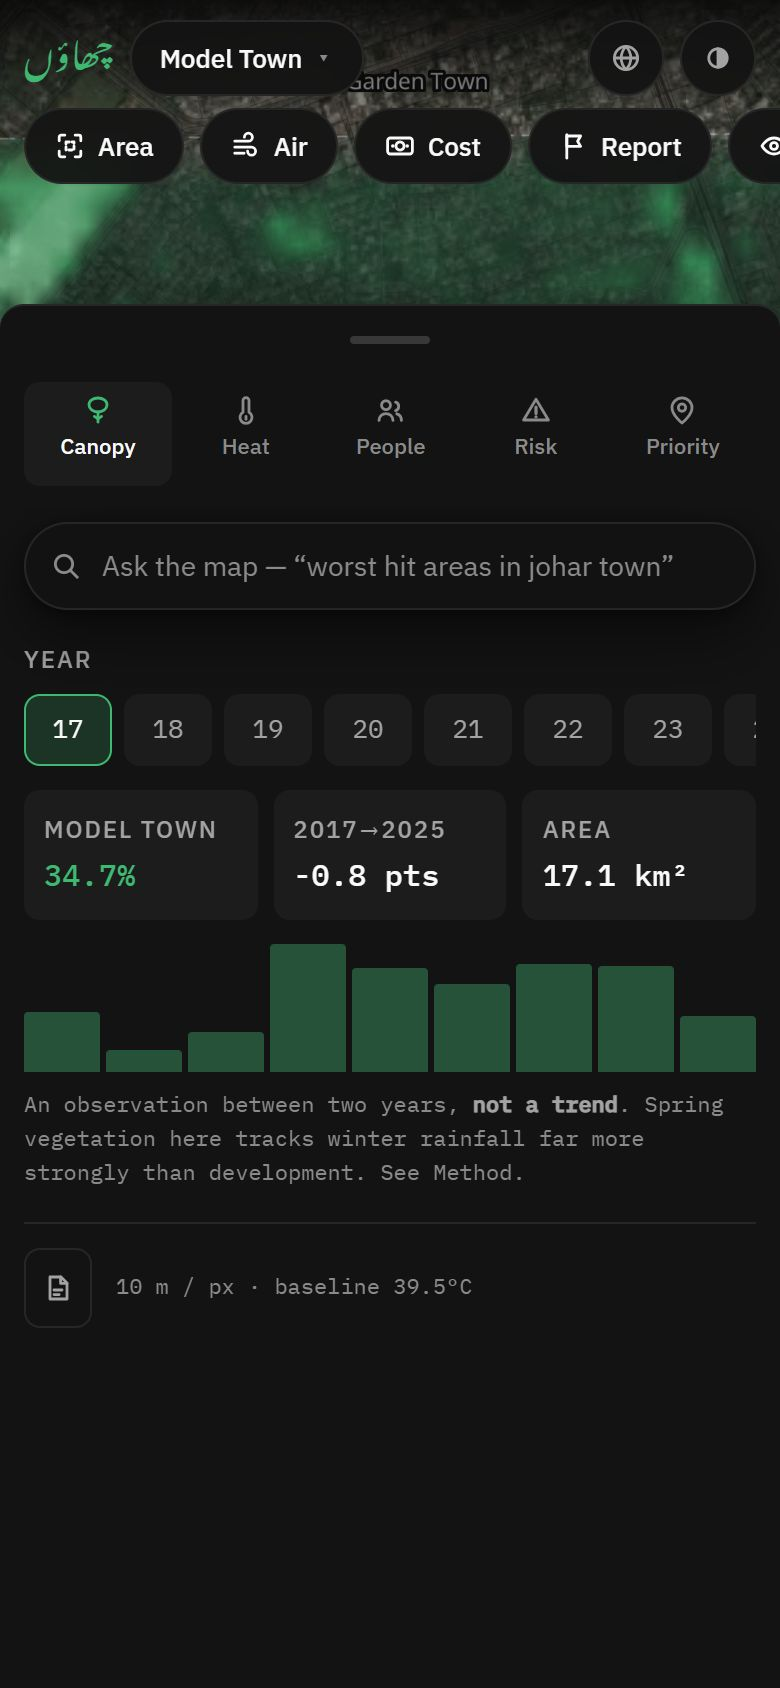
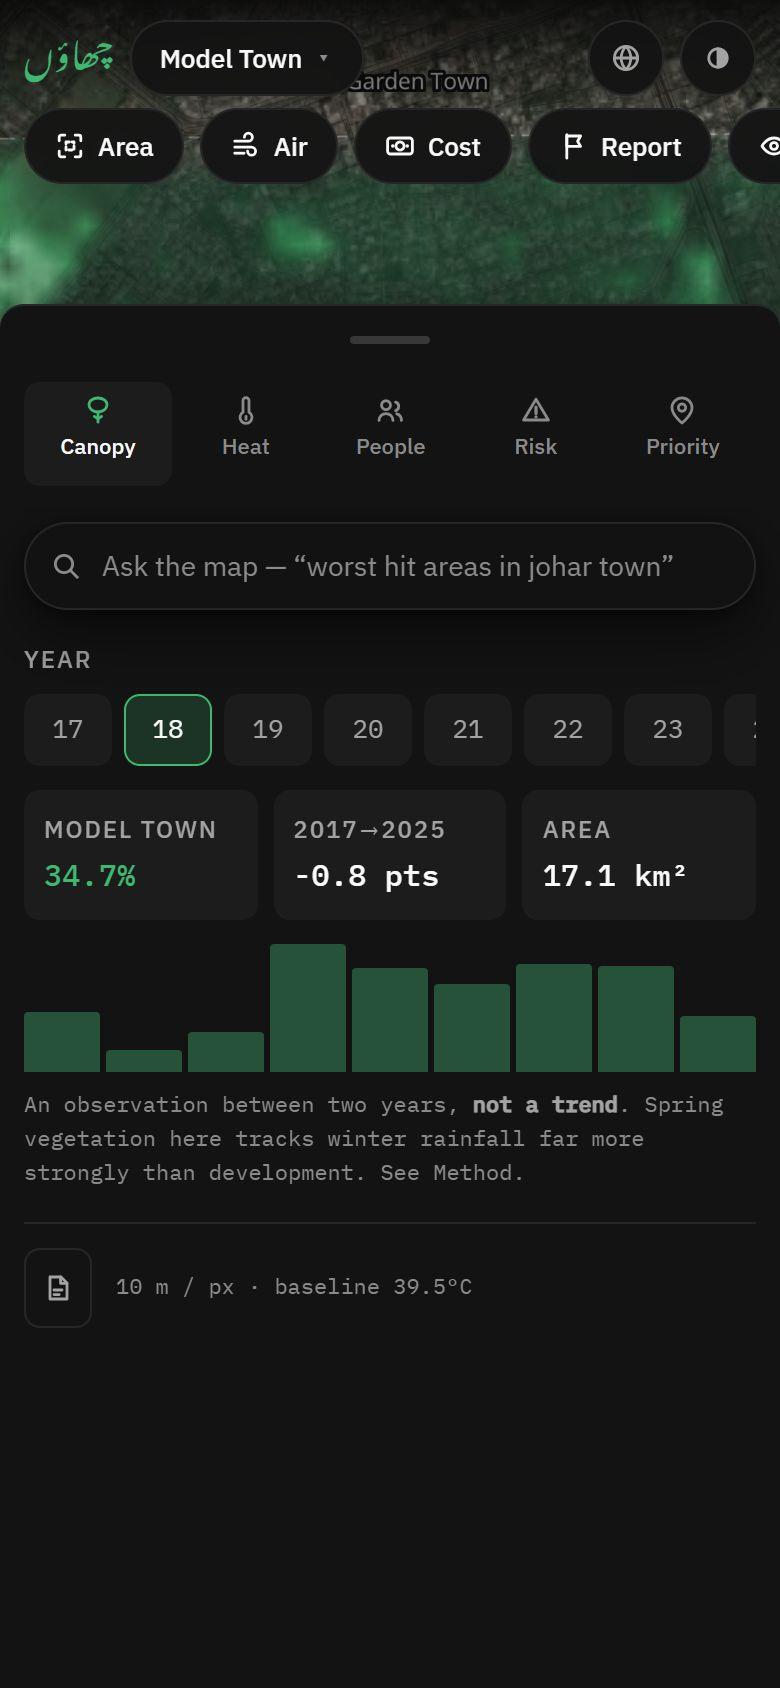
Document the two cadences and why they are never one series
README, PRODUCT.md §3.14a, SCREENS.md.

The argument worth keeping is why they stay apart: the annual window is
season-locked so that 2017 and 2025 are comparable, and joining a spring reading to
a September one would undo exactly that. Also records the counting that chose
monthly over fortnightly, and that a third of the Lahore year cannot be read from
orbit at all — which the series shows rather than smooths over.

Two more entries in the bugs table: write_year calling int() on a period, and the
legend check that started comparing the wrong view because it inherited one.

diff --git a/docs/PRODUCT.md b/docs/PRODUCT.md
@@ -334,6 +334,51 @@ to be gated on their open flags as well as lazily imported, because they render
 anyway. That is 8.7 KB gzip and, more usefully, no hooks running for a panel nobody
 opened.
 
+### 3.14a Two cadences over one measurement, and why they are never joined
+
+The yearly layers answer "is 2025 different from 2017", and the season-locked window
+is what makes that question answerable. They cannot answer "what has the canopy been
+doing lately": one reading a year is the coarsest possible sampling of something that
+moves every month.
+
+| | window | answers |
+|---|---|---|
+| 2017–2024 | one fixed spring window a year | is this year different from that one? |
+| 2024–2026 | every calendar month | what is happening now, and how does this month compare with the same month last year? |
+
+**They share `grid.ndvi`, keyed by period, and they are never plotted as one
+series.** Keeping the rasters in one map means the layer code needs no idea which
+cadence it is drawing — a period key is a period key. But joining the *series* would
+undo the annual window's entire purpose: a spring reading and a September reading are
+not neighbouring points, which is precisely why the annual one is locked.
+
+**Monthly rather than fortnightly, decided by counting.** Over the last 24 months of
+Model Town, scenes under the cloud bar:
+
+    monthly      14 of 16 non-smog months have >= 3 scenes
+    fortnightly  19 of 32 non-smog fortnights do; 10 have one or two, 3 have none
+
+Three scenes is the floor because compositing is the only thing that rejects haze.
+A fortnightly series would be largely single-scene readings — the exact artefact
+that produced 34% -> 23% -> 8% -> 47% on near-identical dates. The finest honest
+cadence is the one the sky supports, not the one the satellite revisit suggests.
+
+**A monthly series measures the season, and the UI says so in those words.** Model
+Town: ~56% vegetated in October, 31% by June, 58% the following September. That
+intra-year swing is larger than anything the decade of annual readings shows, which
+is the product's own central claim made visible — and it is also why the only
+year-on-year figure the panel offers is month-against-same-month.
+
+**A third of the year is unreadable and the series shows it.** 13–15 of 24 months
+per region carry a composite. The rest are Nov–Feb smog or monsoon months below the
+scene floor, each drawn as a gap carrying its reason, in the scrubber and the chart
+both. Zero would read as "no vegetation"; a labelled stub reads as "we could not
+see", which is the truth.
+
+Monthly composites are held to the yearly layers' 92% coverage bar rather than the
+60% a single pass gets. A single pass is one observation and allowed to be partial;
+a composite had several scenes to fill from and has no excuse.
+
 ### 3.15 Recent passes are a separate analysis, never mixed with the yearly ones
 
 The yearly composites are locked to one spring window precisely so that 2017 and
@@ -595,6 +640,7 @@ pip install rasterio pyproj shapely numpy
 python pipeline/run.py            # all five regions (slow, results are cached)
 python pipeline/run.py model-town # one region
 python pipeline/recent.py         # the fast rolling stage — recent passes, detected loss
+python pipeline/monthly.py        # monthly composites, recent 24 months (~2 min/region)
 python pipeline/split_years.py    # re-shape committed grids into core + per-year files
 ```
 
@@ -674,6 +720,8 @@ invisible in the UI: the layer simply keeps showing the previous year.
 | The Priority legend disagreed with the map | Priority's domain comes from the ranking, not the grid, so `domainFor()` returned a hard-coded 0.25–0.95 while the circles were painted from the real spread (0.33–0.80 in Model Town). Four views honoured the single-source rule and the fifth quietly did not |
 | The 3G load figure was measured wrong, twice | The probe waited on `window.__map` (dev-only, so production reported its 182 s timeout), then on any `<li>` in the ranked list — which matches the empty-state row, so it fired before any data arrived and reported 2.5 s. A perf probe that can pass without the thing it measures will eventually put a wrong number in a README |
 | Area-select and report placement could not be told apart | Both armed the map's click handler. Placement now skips when the other is armed, and arming either disarms the other in the store |
+| `write_year` could not write a month | It called `int(period)` on '2024-10'. Generalised to `write_period`, with the cadence in the filename rather than inferred |
+| The legend check started comparing the wrong view | It inherited whatever view the previous check left behind, and a new check began leaving the map on Canopy — so it compared the canopy domain against site scores and failed for a reason that was not there. A test that depends on running order will eventually lie |
 
 The pattern in most of these: **the failure was silent.** Nothing threw. That is
 why the checks now count rendered features and parse strictly, rather than

diff --git a/README.md b/README.md
@@ -110,6 +110,44 @@ states, the tools get thumb-height chips, the legend turns horizontal, and every
 panel becomes a sheet. `node scripts/mobileshots.mjs` asserts no horizontal
 overflow and no tap target under 34&nbsp;px.
 
+### Two cadences, kept apart
+
+One reading a year is the coarsest possible sampling of a signal that moves every
+month. So the record now carries two cadences, each where it makes sense:
+
+| | | |
+|---|---|---|
+| **2017–2024** | yearly, locked to one spring window | for comparing one year with another |
+| **2024–2026** | monthly composites | for knowing what is happening now |
+
+They are never drawn as one line. The annual window is season-locked *precisely*
+so that a spring reading and a September reading are not treated as neighbouring
+points — joining them would throw away the one control that makes the yearly
+series mean anything.
+
+**Monthly, not fortnightly, and that was measured.** Over the last 24 months of
+Model Town, counting only scenes under the cloud bar: **14 of 16** non-smog months
+have at least three scenes, against **19 of 32** non-smog fortnights. A single
+scene cannot be trusted — haze depresses NDVI, which is why the yearly layers are
+composites at all — so a fortnightly series would be mostly single-scene readings,
+reintroducing the artefact that made Model Town read 34 % → 23 % → 8 % → 47 % on
+near-identical dates. Monthly is the finest cadence Lahore's sky supports.
+
+**The monthly series shows the season, and says so.** Model Town runs about
+56 % vegetated in October, 31 % by June, and back to 58 % the following September.
+A fall across those months is the year turning, not trees coming down — so the only
+year-on-year figure offered is the same month a year earlier. September against
+September says something; September against June says only that the monsoon
+happened.
+
+**About a third of the year cannot be read at all**, and the series shows that
+rather than smoothing over it. Of 24 months per region, 13–15 carry a composite;
+the rest are Nov–Feb smog season or monsoon months with too few scenes, each drawn
+as a labelled gap. A blank stretch nobody explains looks like a broken chart.
+
+The scrubber switches cadence, the Green cover panel charts whichever one is
+active, and `#c=monthly&mo=2026-06` sends a specific month to someone.
+
 ### Catching change while it is still news
 
 The yearly layers are locked to one spring window so 2017 and 2025 are
@@ -334,6 +372,9 @@ water instead.
   Citizen Portal is where a complaint gets a tracking number.
 - **We cannot see the ground from November to February.** Smog-season passes are
   kept and marked unusable, never silently dropped.
+- **The monthly series is the season, not a trend.** It is deliberately not
+  season-locked, so month-to-month movement is the monsoon and the winter rain.
+  Compare a month with the same month a year earlier, never with the one before it.
 
 ---
 
@@ -352,6 +393,7 @@ pip install rasterio pyproj shapely numpy
 python pipeline/run.py              # all five regions — slow, the decade of yearly layers
 python pipeline/run.py model-town   # just one
 python pipeline/recent.py           # the fast rolling stage: recent passes and detected loss
+python pipeline/monthly.py          # monthly composites for the recent 24 months
 python pipeline/split_years.py      # re-shape committed grids into core + per-year files
 ```
 

diff --git a/docs/SCREENS.md b/docs/SCREENS.md
@@ -82,9 +82,9 @@ Dismisses on Escape, on outside click, and on selecting another site.
 
 ---
 
-## 5. Year Scrubber
+## 5. Scrubber
 
-**Job:** Show observed green cover per year — as an observation, not a trend.
+**Job:** Walk the timeline — yearly for comparing years, monthly for the season.
 
 A horizontal scale along the bottom of the workspace. Moving it re-reads the
 canopy layer for that year, and the cast shade grows and shrinks with the
@@ -98,6 +98,16 @@ once the map is idle — so a drag never waits on the network.
 
 The label says what this is: an observation. Interannual variation here is
 dominated by rainfall, and the interface must not imply otherwise.
+
+**Two cadences, switched rather than merged.** Yearly walks the season-locked
+annual composites from 2017; monthly walks calendar months over the recent two
+years. The toggle only appears where monthly data exists, and the two are never one
+timeline — the annual window is locked precisely so a spring reading and a
+September reading are not neighbours.
+
+On the monthly track, months with no composite are drawn as faint stubs with their
+reason on hover: Nov–Feb smog, or a monsoon month with too few scenes to composite
+haze out. About a third of the Lahore year, and it is shown rather than skipped.
 
 ---
 
